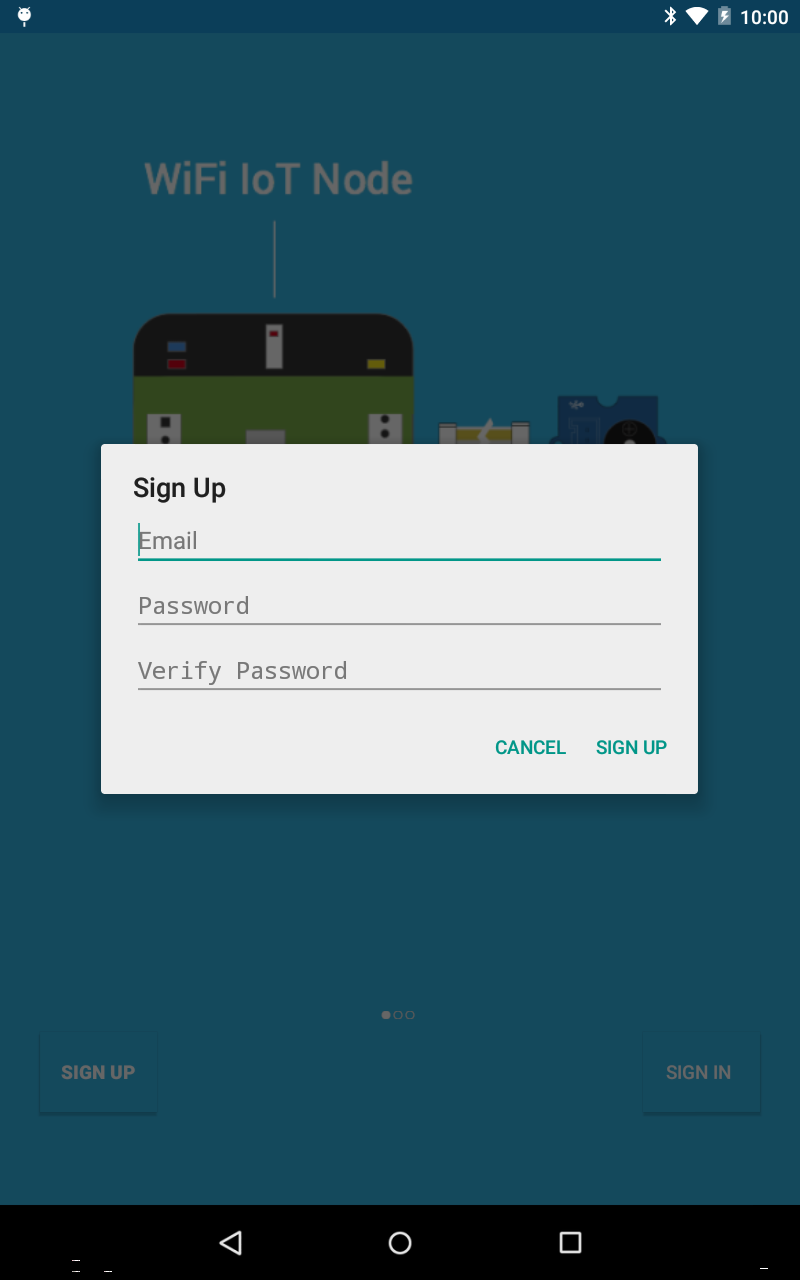
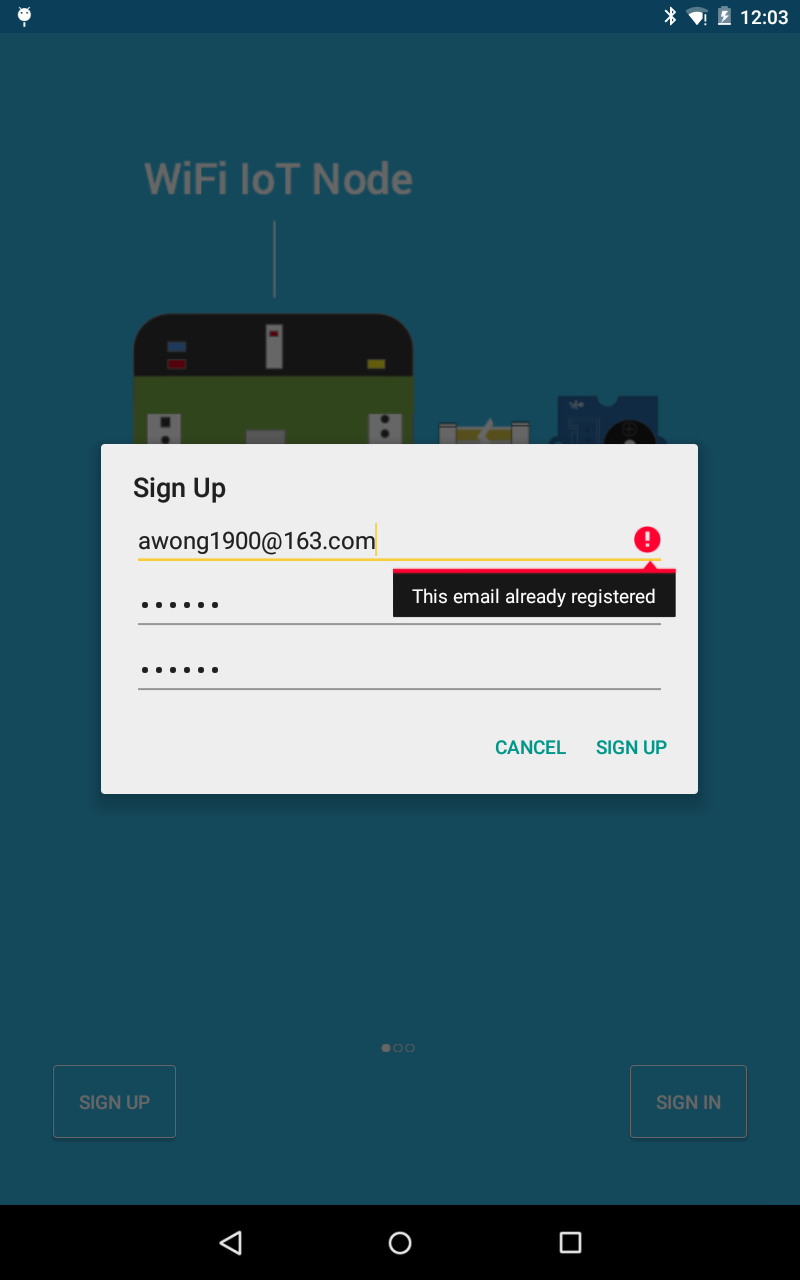
add Sign Up

diff --git a/android/app/src/main/java/cc/seeed/iot/ui_setup/SignUpDialogFragment.java b/android/app/src/main/java/cc/seeed/iot/ui_setup/SignUpDialogFragment.java
@@ -1,21 +1,42 @@
 package cc.seeed.iot.ui_setup;
 
+import android.animation.Animator;
+import android.animation.AnimatorListenerAdapter;
+import android.annotation.TargetApi;
 import android.app.AlertDialog;
 import android.app.Dialog;
 import android.app.DialogFragment;
 import android.content.Context;
+import android.os.Build;
 import android.os.Bundle;
+import android.text.TextUtils;
+import android.util.Log;
 import android.view.LayoutInflater;
 import android.view.View;
 import android.view.ViewGroup;
+import android.widget.AutoCompleteTextView;
+import android.widget.Button;
+import android.widget.EditText;
+import android.widget.Toast;
 
 import cc.seeed.iot.R;
+import cc.seeed.iot.webapi.IotApi;
+import cc.seeed.iot.webapi.IotService;
+import cc.seeed.iot.webapi.model.UserResponse;
+import retrofit.Callback;
+import retrofit.RetrofitError;
 
 /**
  * Created by tenwong on 15/6/30.
  */
 public class SignUpDialogFragment extends DialogFragment {
     Context context;
+    AutoCompleteTextView mEmailView;
+    EditText mPasswordView;
+    EditText mPasswordVerifyView;
+    private View mProgressView;
+    private View mLoginRegisterView;
+    private AlertDialog alertDialog;
 
     @Override
     public void onCreate(Bundle savedInstanceState) {
@@ -29,11 +50,145 @@ public class SignUpDialogFragment extends DialogFragment {
         LayoutInflater inflater = getActivity().getLayoutInflater();
         View view = inflater.inflate(R.layout.sign_up, null);
 
+        mEmailView = (AutoCompleteTextView) view.findViewById(R.id.email);
+        mPasswordView = (EditText) view.findViewById(R.id.password);
+        mPasswordVerifyView = (EditText) view.findViewById(R.id.verify);
+        mProgressView = view.findViewById(R.id.login_progress);
+        mLoginRegisterView = view.findViewById(R.id.email_register_form);
+
         builder.setView(view);
         builder.setTitle("Sign Up");
         builder.setPositiveButton("Sign up", null);
         builder.setNegativeButton("Cancel", null);
 
         return builder.create();
+    }
+
+    @Override
+    public void onStart() {
+        super.onStart();
+        alertDialog = (AlertDialog) getDialog();
+        if (alertDialog != null) {
+            Button positiveButton = (Button) alertDialog.getButton(Dialog.BUTTON_POSITIVE);
+            positiveButton.setOnClickListener(new View.OnClickListener() {
+                @Override
+                public void onClick(View v) {
+                    Boolean wantToCloseDialog = false;
+                    //Do stuff, possibly set wantToCloseDialog to true then...
+                    attemptRegister();
+                    if (wantToCloseDialog)
+                        alertDialog.dismiss();
+                    //else dialog stays open. Make sure you have an obvious way to close the dialog especially if you set cancellable to false.
+                }
+            });
+        }
+    }
+
+    private void attemptRegister() {
+        mEmailView.setError(null);
+        mPasswordView.setError(null);
+
+        String email = mEmailView.getText().toString();
+        String password = mPasswordView.getText().toString();
+        String passwordVerify = mPasswordVerifyView.getText().toString();
+
+        boolean cancel = false;
+        View focusView = null;
+
+        if (!(password.equals(passwordVerify))) {
+            mPasswordVerifyView.setError("not same password");
+            focusView = mPasswordVerifyView;
+            cancel = true;
+        }
+
+        if (TextUtils.isEmpty(password) || !isPasswordValid(password)) {
+            mPasswordView.setError("invalid Password");
+            focusView = mPasswordView;
+            cancel = true;
+        }
+
+
+        if (TextUtils.isEmpty(email)) {
+            mEmailView.setError("Require email");
+            focusView = mEmailView;
+            cancel = true;
+
+        } else if (!isEmailValid(email)) {
+            mEmailView.setError("Invalid email");
+            focusView = mEmailView;
+            cancel = true;
+        }
+
+        if (cancel) {
+            focusView.requestFocus();
+        } else {
+            showProgress(true);
+            IotApi api = new IotApi();
+            IotService iot = api.getService();
+            iot.userCreate(email, password, new Callback<UserResponse>() {
+                @Override
+                public void success(UserResponse userResponse, retrofit.client.Response response) {
+                    String status = userResponse.status;
+                    if (status.equals("200")) {
+                        Toast.makeText(context, userResponse.msg, Toast.LENGTH_LONG).show();
+                        alertDialog.dismiss();
+                    } else {
+                        showProgress(false);
+                        mEmailView.setError(userResponse.msg);
+                        mEmailView.requestFocus();
+                    }
+                }
+
+                @Override
+                public void failure(RetrofitError error) {
+                    Toast.makeText(context, "连接服务器失败", Toast.LENGTH_LONG).show();
+                }
+            });
+        }
+    }
+
+    private boolean isEmailValid(String email) {
+        return email.contains("@");
+    }
+
+    private boolean isPasswordValid(String password) {
+        return password.length() >= 6;
+    }
+
+
+    /**
+     * Shows the progress UI and hides the login form.
+     */
+    @TargetApi(Build.VERSION_CODES.HONEYCOMB_MR2)
+    public void showProgress(final boolean show) {
+        // On Honeycomb MR2 we have the ViewPropertyAnimator APIs, which allow
+        // for very easy animations. If available, use these APIs to fade-in
+        // the progress spinner.
+        if (Build.VERSION.SDK_INT >= Build.VERSION_CODES.HONEYCOMB_MR2) {
+            int shortAnimTime = getResources().getInteger(android.R.integer.config_shortAnimTime);
+
+            mLoginRegisterView.setVisibility(show ? View.GONE : View.VISIBLE);
+            mLoginRegisterView.animate().setDuration(shortAnimTime).alpha(
+                    show ? 0 : 1).setListener(new AnimatorListenerAdapter() {
+                @Override
+                public void onAnimationEnd(Animator animation) {
+                    mLoginRegisterView.setVisibility(show ? View.GONE : View.VISIBLE);
+                }
+            });
+
+            mProgressView.setVisibility(show ? View.VISIBLE : View.GONE);
+            mProgressView.animate().setDuration(shortAnimTime).alpha(
+                    show ? 1 : 0).setListener(new AnimatorListenerAdapter() {
+                @Override
+                public void onAnimationEnd(Animator animation) {
+                    mProgressView.setVisibility(show ? View.VISIBLE : View.GONE);
+                }
+            });
+        } else {
+            // The ViewPropertyAnimator APIs are not available, so simply show
+            // and hide the relevant UI components.
+            mProgressView.setVisibility(show ? View.VISIBLE : View.GONE);
+            mLoginRegisterView.setVisibility(show ? View.GONE : View.VISIBLE);
+        }
     }
 }

diff --git a/android/app/src/main/java/cc/seeed/iot/ui_setup/SignInDialogFragment.java b/android/app/src/main/java/cc/seeed/iot/ui_setup/SignInDialogFragment.java
@@ -94,7 +94,7 @@ public class SignInDialogFragment extends DialogFragment {
         boolean cancel = false;
         View focusView = null;
 
-        if (!TextUtils.isEmpty(password) && !isPasswordValid(password)) {
+        if (TextUtils.isEmpty(password) || !isPasswordValid(password)) {
             mPasswordView.setError("invalid Password");
             focusView = mPasswordView;
             cancel = true;
@@ -127,7 +127,7 @@ public class SignInDialogFragment extends DialogFragment {
                         alertDialog.dismiss();
                     } else {
                         showProgress(false);
-                        mEmailView.setError("email or password error.");
+                        mEmailView.setError(userResponse.msg);
                         mEmailView.requestFocus();
                     }
                 }
